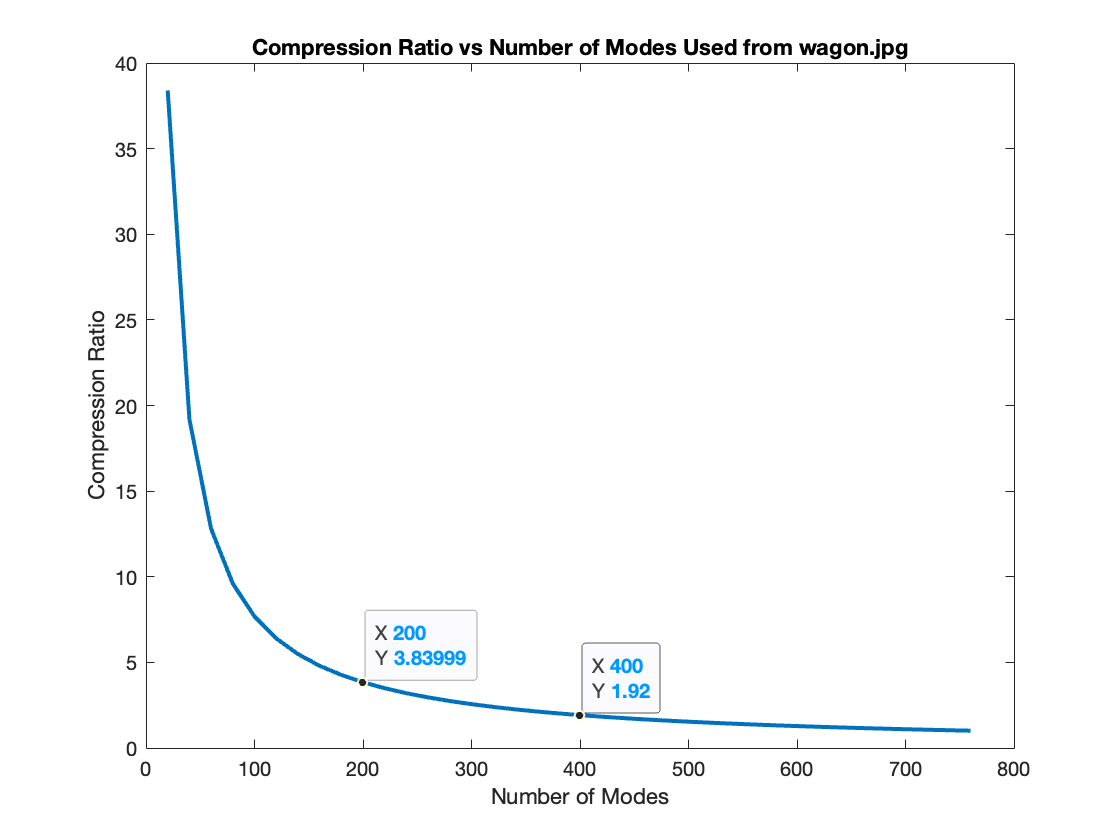
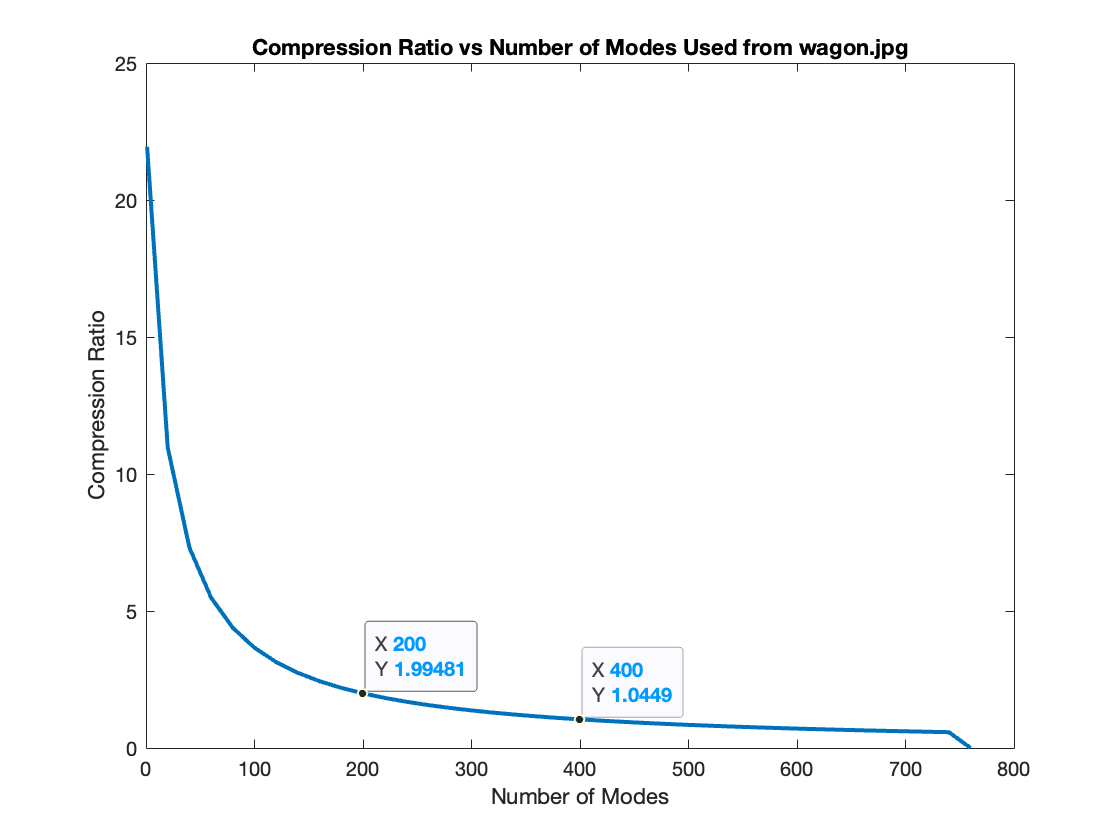
Added section on compression upper bound and corrected corresponding plot in results

diff --git a/LateX/report.tex b/LateX/report.tex
@@ -241,6 +241,22 @@ thoesens@arizona.edu}}
         \mathbf{\hat{X}} = \mathbf{\hat{U}{\hat{\Sigma}}\hat{V}^T}
     \label{eq:imgrecon}
     \end{equation}
+
+    \subsection{Compressibility Upper Bound}
+
+    When expressed canonically a color image contains exactly $m \times n \times 3$ elements. When expressed under SVD the same image contains at minimum $(m+n)\times 3$ elements, and at most $(m^2 + m\times n) \times 3$ elements, assuming $m<n$. In general, the SVD of an image contains $r\times (m + n) \times 3$ elements. It is clear from these expressions that an upper bound exists on $r$, and exceeding this bound will result in an image that is larger than the original. The ratio between the number of elements in the canonical form of the image and the number of elements in the SVD of the compressed image must satisfy the inequality in Equation \ref{eq:compressionineq}
+
+    \begin{equation}
+        \frac{m\times n}{r\times (m + n)}>1
+    \label{eq:compressionineq}
+    \end{equation}
+
+    Therefore, the upper bound on $r$ is
+
+    \begin{equation}
+        r < \frac{m\times n}{(m + n)}
+    \end{equation}
+    
     \section{Results}
 
     The compression technique described in Section \ref{pca_section} is implemented in Matlab. The Matlab built-in image 'wagon.jpg' is used throughout this section as an example for both qualitative and quantitative analysis of the compression scheme. Qualitative analysis is performed through visual inspection of image quality after compression. Quantitative analysis is performed by examining the peak signal-to-noise ratio (PSNR) of the compressed image, compared to the original, uncompressed image.
@@ -299,7 +315,7 @@ thoesens@arizona.edu}}
     \label{fig:comprvsr}
     \end{figure}
     
-    Retaining the first 200-400 modes would suggest, from a subjective perspective, that the image can be reduced in size by a factor of 1.92 to 3.84. According to the plot in Figure \ref{fig:comprvsr}, the computed compression ratio for 100-200 modes is indeed between 1.92 and 3.84. This direct relationship suggests compression ratio is simply a function of number of modes.
+    Retaining the first 200-400 modes out of 768 would suggest, at first glance, that the image can be reduced in size by a factor of 1.92 to 3.84. According to the plot in Figure \ref{fig:comprvsr}, the actual compression ratio for 200-400 modes is between 1.05 and 1.99. Further reducing the number of modes would increase distortion effects but compression would improve significantly.
 
     % Add comments about the differences between the Y and Cb/Cr curves?
 

diff --git a/plotTrueCompressionRatio.m b/plotTrueCompressionRatio.m
@@ -1,0 +1,25 @@
+imName = 'wagon.jpg';
+imdata_path = fullfile(matlabroot,'toolbox/images/imdata');
+imdata = imread(fullfile(imdata_path,imName));
+
+% Step size for number of modes to include
+nSVs = min(size(imdata(:,:,1)));
+skipCount = 20;
+n = floor(nSVs/skipCount)*skipCount;
+compressionRatio = zeros(1,floor(nSVs/skipCount)+1);
+
+numer = numel(imdata(:,:,1));
+denom = sum(size(imdata(:,:,1)));
+
+compressionRatio(1) = numer/denom;
+
+for r=20:skipCount:n
+    compressionRatio(ceil(r/skipCount)) = numer/(r*denom);
+end
+
+ax = axes;
+xAxis = [1,linspace(20,n,floor(nSVs/skipCount))];
+semilogy(ax,xAxis,compressionRatio,'LineWidth',2)
+ylabel(ax,"Compression Ratio")
+xlabel(ax,"Number of Modes")
+title(ax,sprintf("Compression Ratio vs Number of Modes Used from %s",imName))
